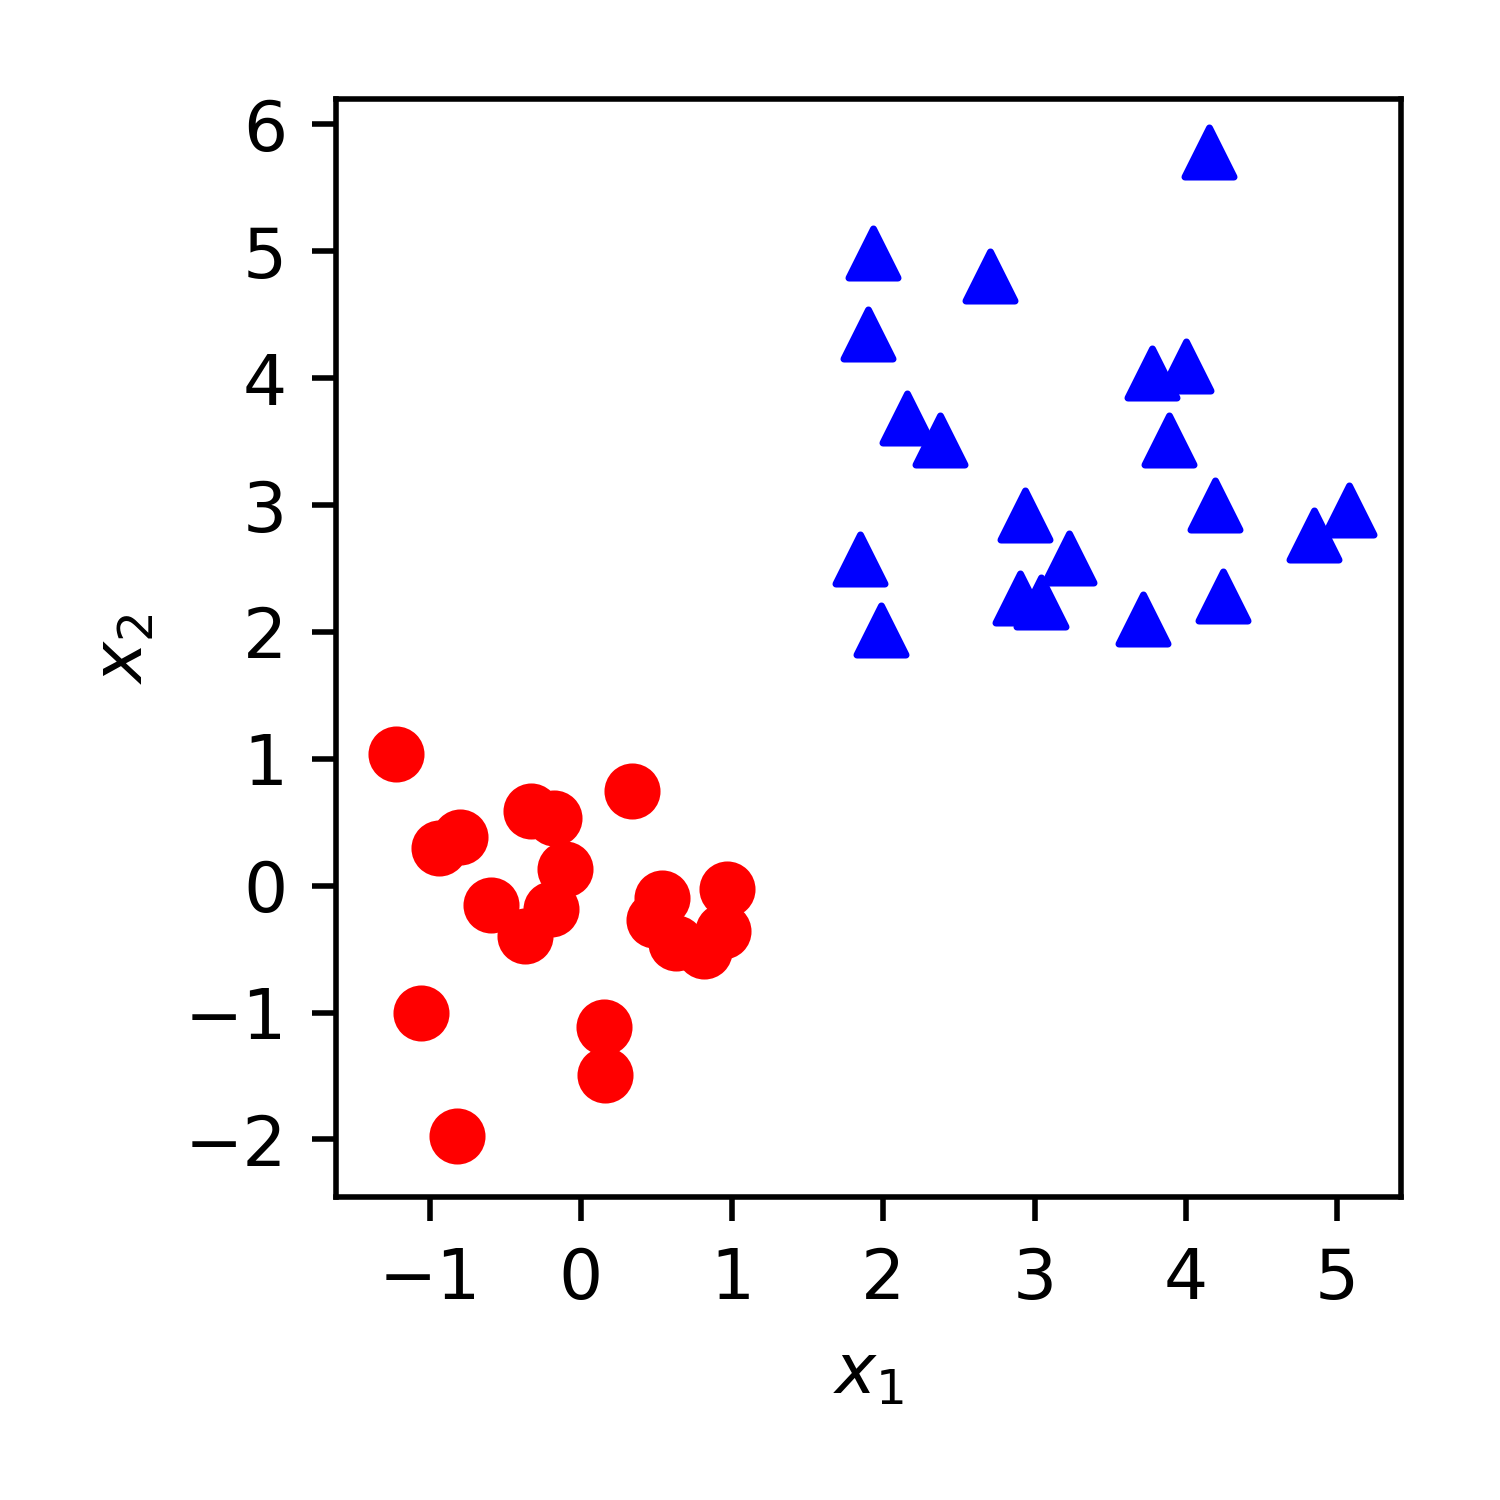
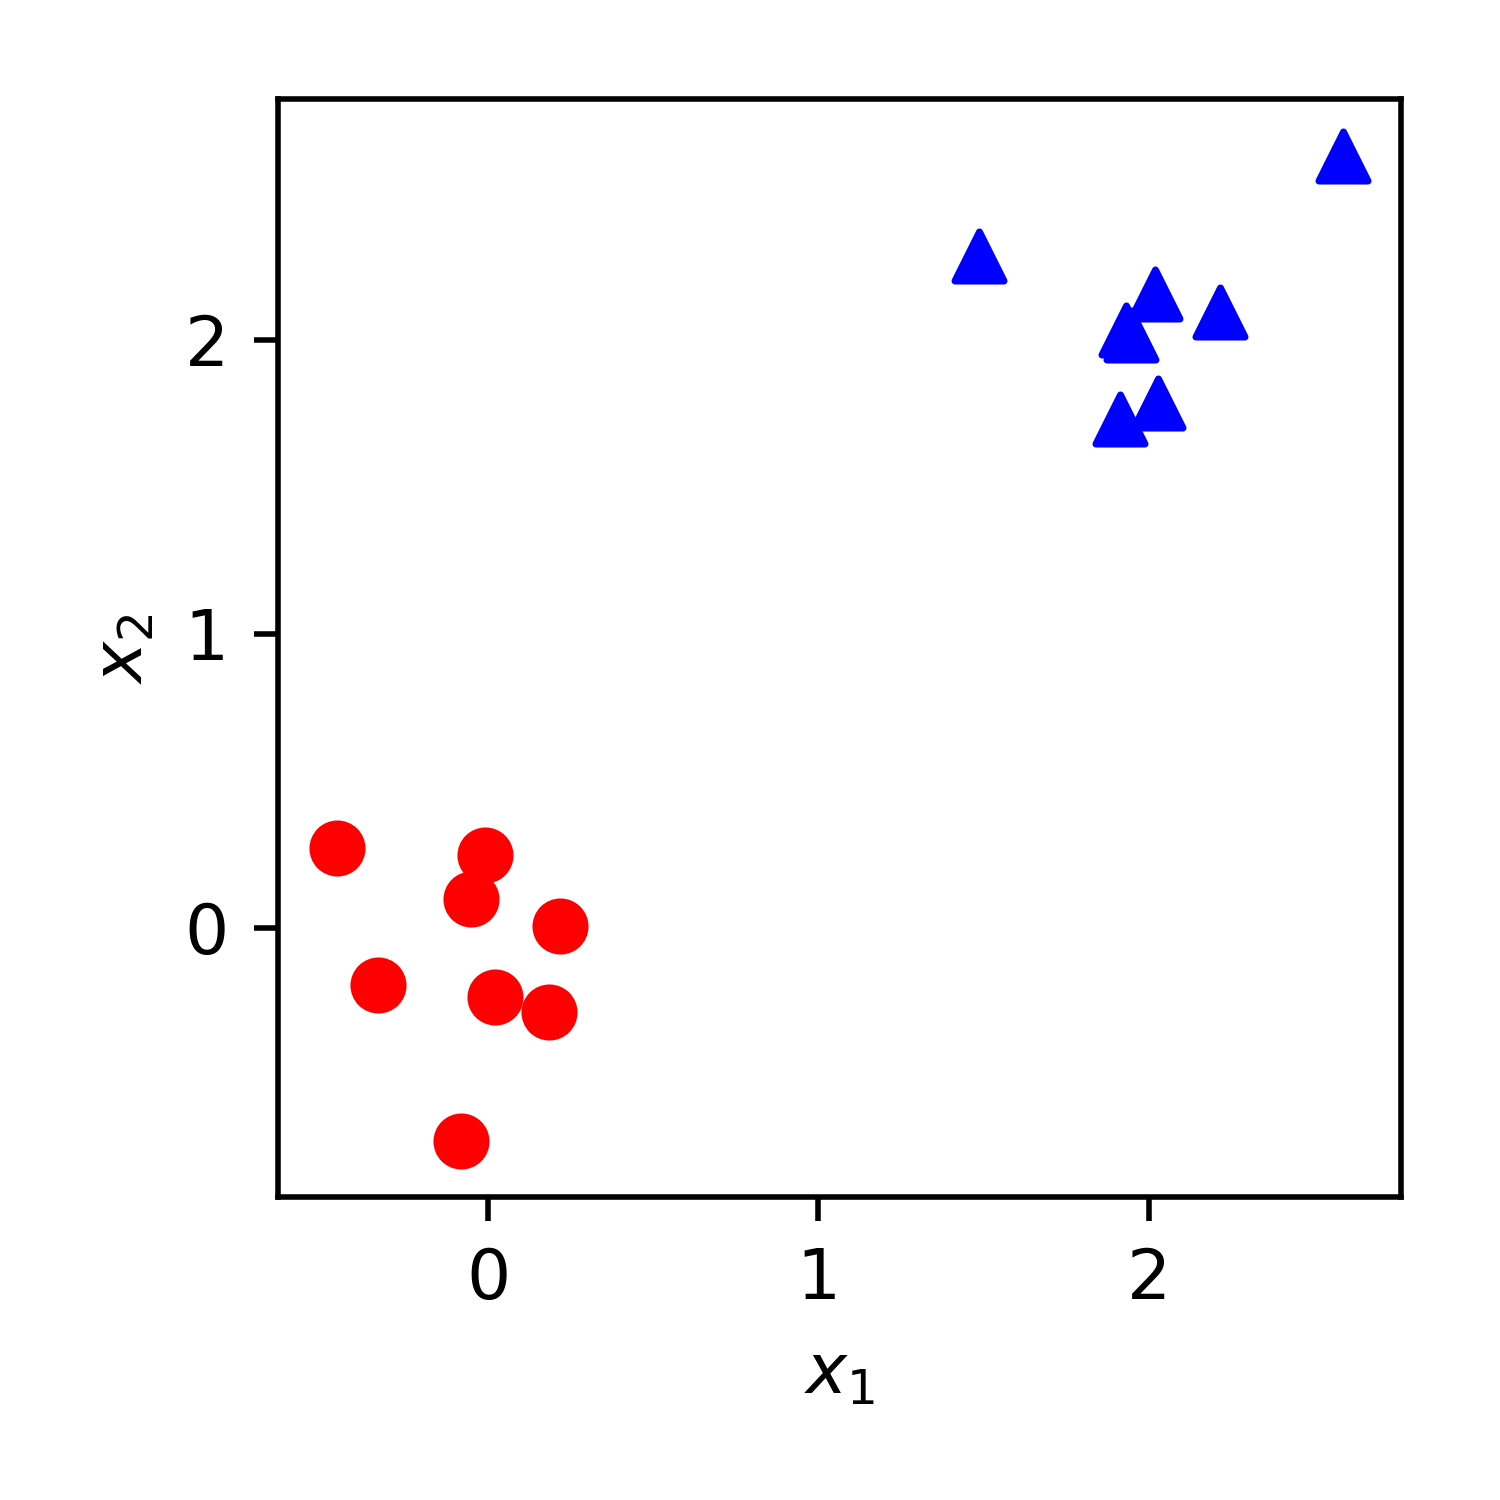
Saving generated dataset to a CSV file.

diff --git a/src/plot.py b/src/plot.py
@@ -9,12 +9,13 @@ This module contains code for plotting datasets, hyperplanes, and decision bound
 """
 
 import numpy as np
+import pandas as pd
 import matplotlib.pyplot as plt
 import itertools
 from os.path import join
 
 # Height and width of a plot
-#plt.rcParams["figure.figsize"] = [3, 3]
+plt.rcParams["figure.figsize"] = [3, 3]
 
 
 def OR_dataset():
@@ -58,6 +59,7 @@ def norm_dataset(cov_mat_c1, mean_vec_c1, cov_mat_c2, mean_vec_c2,
     
     return X_1, y_1, X_2, y_2
 
+
 def make_dataset(X_1, y_1, X_2, y_2):
     
     """
@@ -68,6 +70,16 @@ def make_dataset(X_1, y_1, X_2, y_2):
     y = np.hstack((y_1, y_2))
     
     return X, y
+
+
+def save_dataset(X, y, path):
+    """
+    It saves dataset into a CSV file.
+    """
+    
+    df = pd.DataFrame(np.hstack((y.reshape(X.shape[0], 1), X)))
+    df.to_csv(path, index=False, header=False)
+      
 
 def make_data_VC(plot_name):
     
@@ -145,8 +157,10 @@ def plot_dataset(X, y, plot_name):
     plt.show()
     
     print("Wanna save?... yes -> 1")
+    
+    choice = int(input())
         
-    if input() == '1':
+    if choice:
     
         fig.savefig(join('./figs/', plot_name + '.png'), format='png', dpi=500)
 
@@ -154,16 +168,21 @@ def plot_dataset(X, y, plot_name):
 
 if __name__ == '__main__':
     
-#    # Cov matrices
-#    c1_cov = np.array([[1, 0], [0, 1]])
-#    c2_cov = np.array([[0.5, 0], [0, 0.5]])
-#    
-#    # Mean vectors
-#    c1_mean = np.array([3, 3])
-#    c2_mean = np.array([0, 0])
-#    
-#    X_1, y_1, X_2, y_2 = norm_dataset(c1_cov, c1_mean, c2_cov, c2_mean, 20, 20)
-#    X, y = make_dataset(X_1, y_1, X_2, y_2)
-#    plot_dataset(X, y, 'LinearDataset')
+    # Cov matrices
+    c1_cov = np.array([[0, 0.1], [0.1, 0]])
+    c2_cov = np.array([[0, 0.1], [0.1, 0]])
     
-    make_data_VC('VC-Perceptron')
+    # Mean vectors
+    c1_mean = np.array([2, 2])
+    c2_mean = np.array([0, 0])
+    
+    X_1, y_1, X_2, y_2 = norm_dataset(c1_cov, c1_mean, c2_cov, c2_mean, 8, 8)
+    X, y = make_dataset(X_1, y_1, X_2, y_2)
+    save = plot_dataset(X, y, 'LinearDataset')
+        
+    if save:
+        
+        save_dataset(X, y, './2d-linear-data.csv')
+        
+    
+    #make_data_VC('VC-Perceptron')

diff --git a/src/math.py b/src/math.py
@@ -29,7 +29,7 @@ def vector_plot(x, plot_name):
     plt.quiver(*origin, x[0], x[1], angles='xy', scale_units='xy', scale=1,
                width=0.015)
     
-    plt.xlim(0, 4)
+    plt.xlim(0, 3)
     plt.ylim(0, 4)
     # range of x and y axis
     x_range = ax.get_xlim()
@@ -45,9 +45,47 @@ def vector_plot(x, plot_name):
     plt.show()
     
     fig.savefig(join('./figs/', plot_name + '.png'), format='png', dpi=500)
+    
+    
+def plot_two_vec(x, y, plot_name):
+    
+    """
+    Plots two vectors in a two-dimensional space.
+    """
+    
+    fig = plt.figure()
+    ax = plt.gca()
+    
+    origin = [0], [0]
+    
+    plt.quiver(*origin, x[0], x[1], angles='xy', scale_units='xy', scale=1,
+               width=0.015)
+    plt.quiver(*origin, y[0], y[1], angles='xy', scale_units='xy', scale=1,
+               width=0.015)
+    
+    plt.xlim(0, 6)
+    plt.ylim(0, 6)
+    # range of x and y axis
+    x_range = ax.get_xlim()
+    y_range = ax.get_ylim()
+    plt.xticks(np.arange(int(x_range[0]), int(x_range[1]) + 1, step=1))
+    plt.yticks(np.arange(int(y_range[0]), int(y_range[1]) + 1, step=1))
+    
+    # axis major lines
+    ax.xaxis.grid(which='major', linestyle='--')
+    ax.yaxis.grid(which='major', linestyle='--')
+    
+    plt.draw()
+    plt.show()
+    
+    fig.savefig(join('./figs/', plot_name + '.png'), format='png', dpi=500)
+    
+    
 
 if __name__ == '__main__':
     
-    x = np.array([2, 3])
+    x = np.array([3, 1])
+    y = np.array([4, 5])
     
-    vector_plot(x, 'vector')
+    #vector_plot(x, 'vector')
+    plot_two_vec(x, y, 'two-vector')
